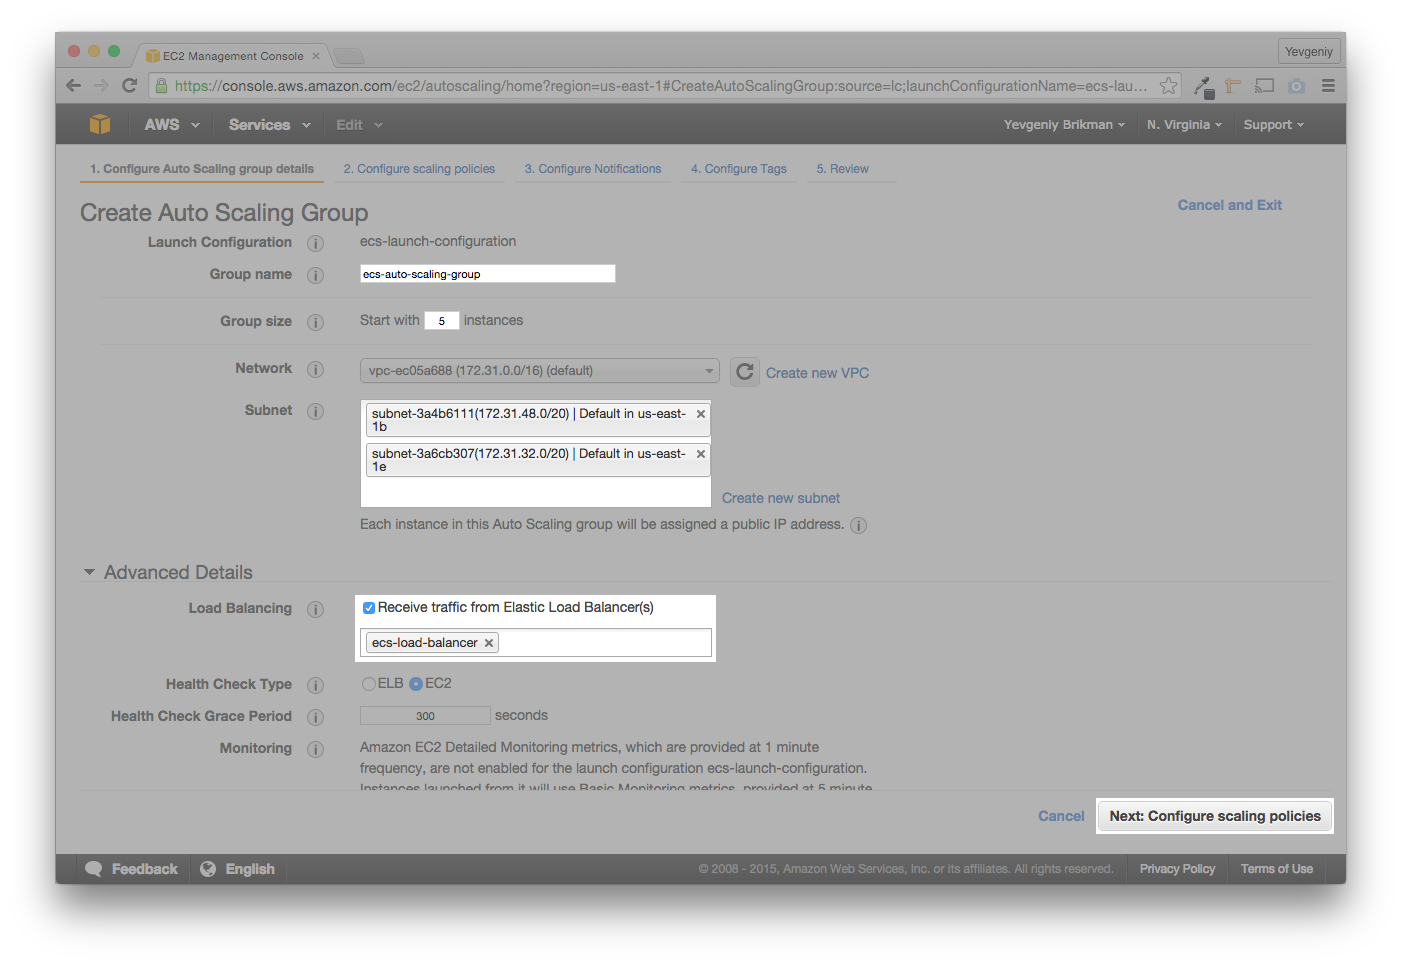
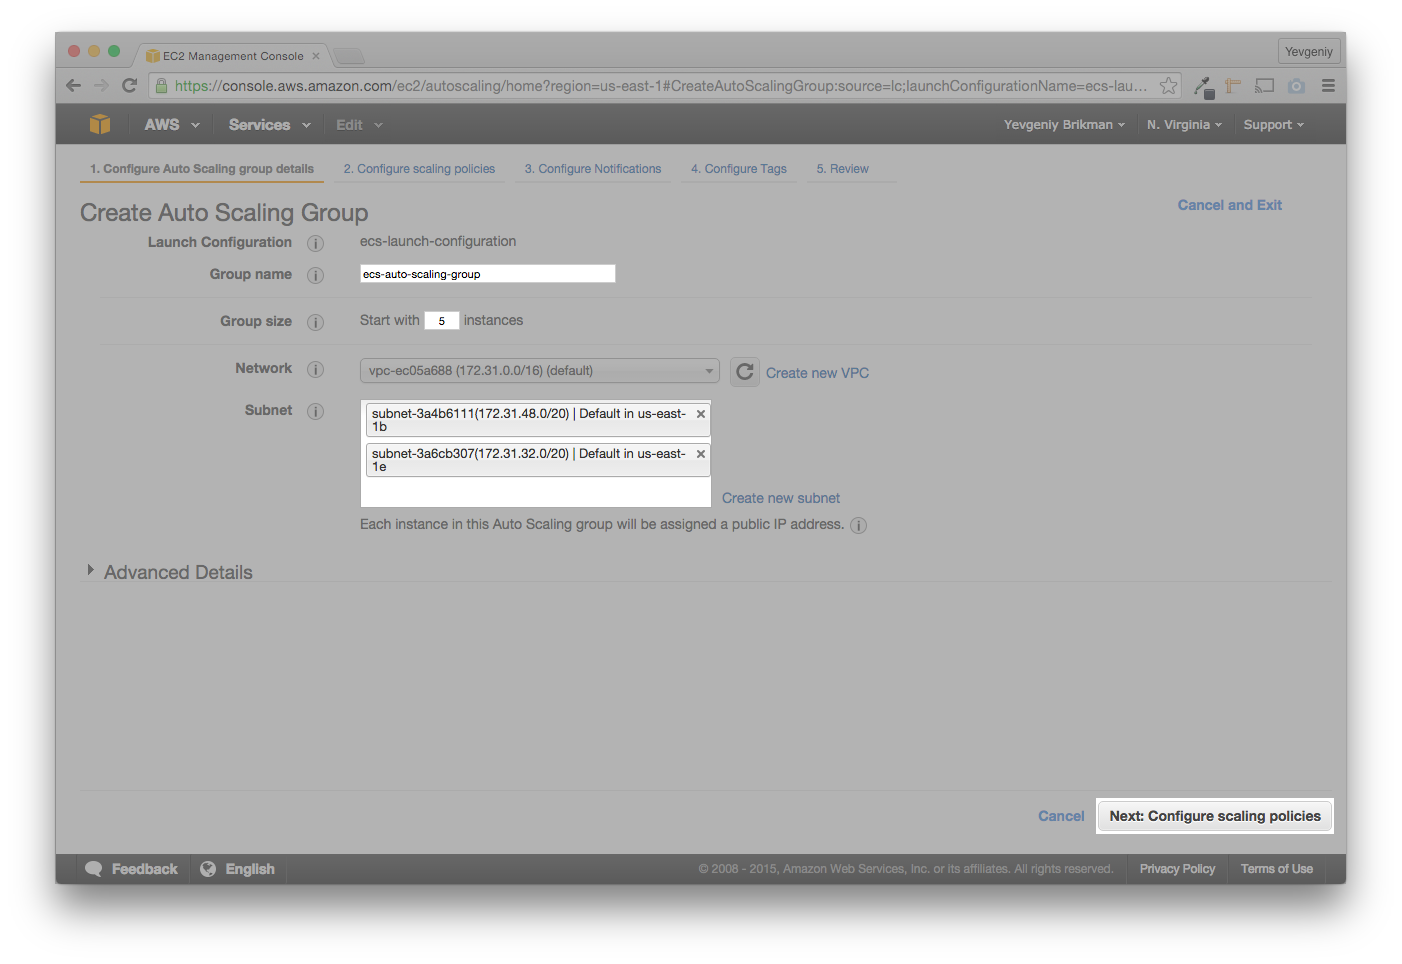
Don't use ELB with ASG in docker-ground-up post

diff --git a/_posts/2015-11-11-running-docker-aws-ground-up.md b/_posts/2015-11-11-running-docker-aws-ground-up.md
@@ -524,9 +524,7 @@ I won't cover them here, but you may want to read the
 [Regions and Availability Zones](http://docs.aws.amazon.com/AWSEC2/latest/UserGuide/using-regions-availability-zones.html)
 documentation for more info. For now, pick any of the default Subnets from the
 drop-down list, and the Auto Scaling Group will deploy your EC2 Instances
-across them. In the "Advanced Details" section, click the "Receive traffic from
-Elastic Load Balancer(s)" check box, and select the ELB you created earlier
-(`ecs-load-balancer`). The page should look something like this:
+across them. The page should look something like this:
 
 {% include figure.html path="blog/aws-docker/auto-scaling-basic-config.png" caption="Give the Auto Scaling Group a name, a size of 5, a couple Subnets, select the ELB you created earlier" link_to_full_size_image=true %}
 
